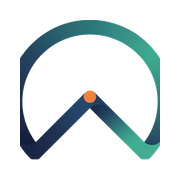
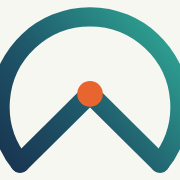
Say "space", and put our own mark in the tab
Two things, both about what people see before they read anything.

── The headline ────────────────────────────────────────────

"A better place to find your next place" used the same word twice in one
sentence, and the second one was the weaker of the two. It reads "space"
now, in the hero and in the share card that mirrors it.

Left alone: "Find your next place" in how-it-works and "Your next place
might be closer than you think" in the final CTA. Neither repeats itself,
so neither has the problem this fixes — but say the word and they change
too.

── The favicon ─────────────────────────────────────────────

src/app/favicon.ico was still the Next.js default: a black circle with a
white triangle. The real mark was sitting right next to it in icon.png,
but browsers prefer the .ico — Next emitted it with sizes="any", which
wins in Chrome — so every tab, every bookmark, and the small icon that
Slack, iMessage, Discord and search results put beside a link showed
Next's logo where Haloft's should be.

All three icons are now rendered from one SVG, and that SVG copies its
geometry from the HaloftMark component, so the tab cannot drift away from
the header:

  favicon.ico     16/32/48/64/128/256, PNG frames, transparent
  icon.png        512
  apple-icon.png  180 on #f7f7f2, since iOS composites alpha on black

The SVG needs a transform the component does not, and that is worth
knowing about: HaloftMark's 100x100 box has padding around the drawn ink,
[…]

diff --git a/src/components/haloft/hero.tsx b/src/components/haloft/hero.tsx
@@ -43,7 +43,7 @@ export function Hero({
                   <>
                     next{" "}
                     <span className="editorial font-normal text-[var(--teal-deep)]">
-                      place
+                      space
                     </span>
                     .
                   </>,

diff --git a/scripts/og-image.html b/scripts/og-image.html
@@ -158,7 +158,7 @@
     </div>
 
     <h1>
-      A better place<br />to find your<br />next <span class="editorial">place</span>.
+      A better place<br />to find your<br />next <span class="editorial">space</span>.
     </h1>
 
     <div class="foot">
